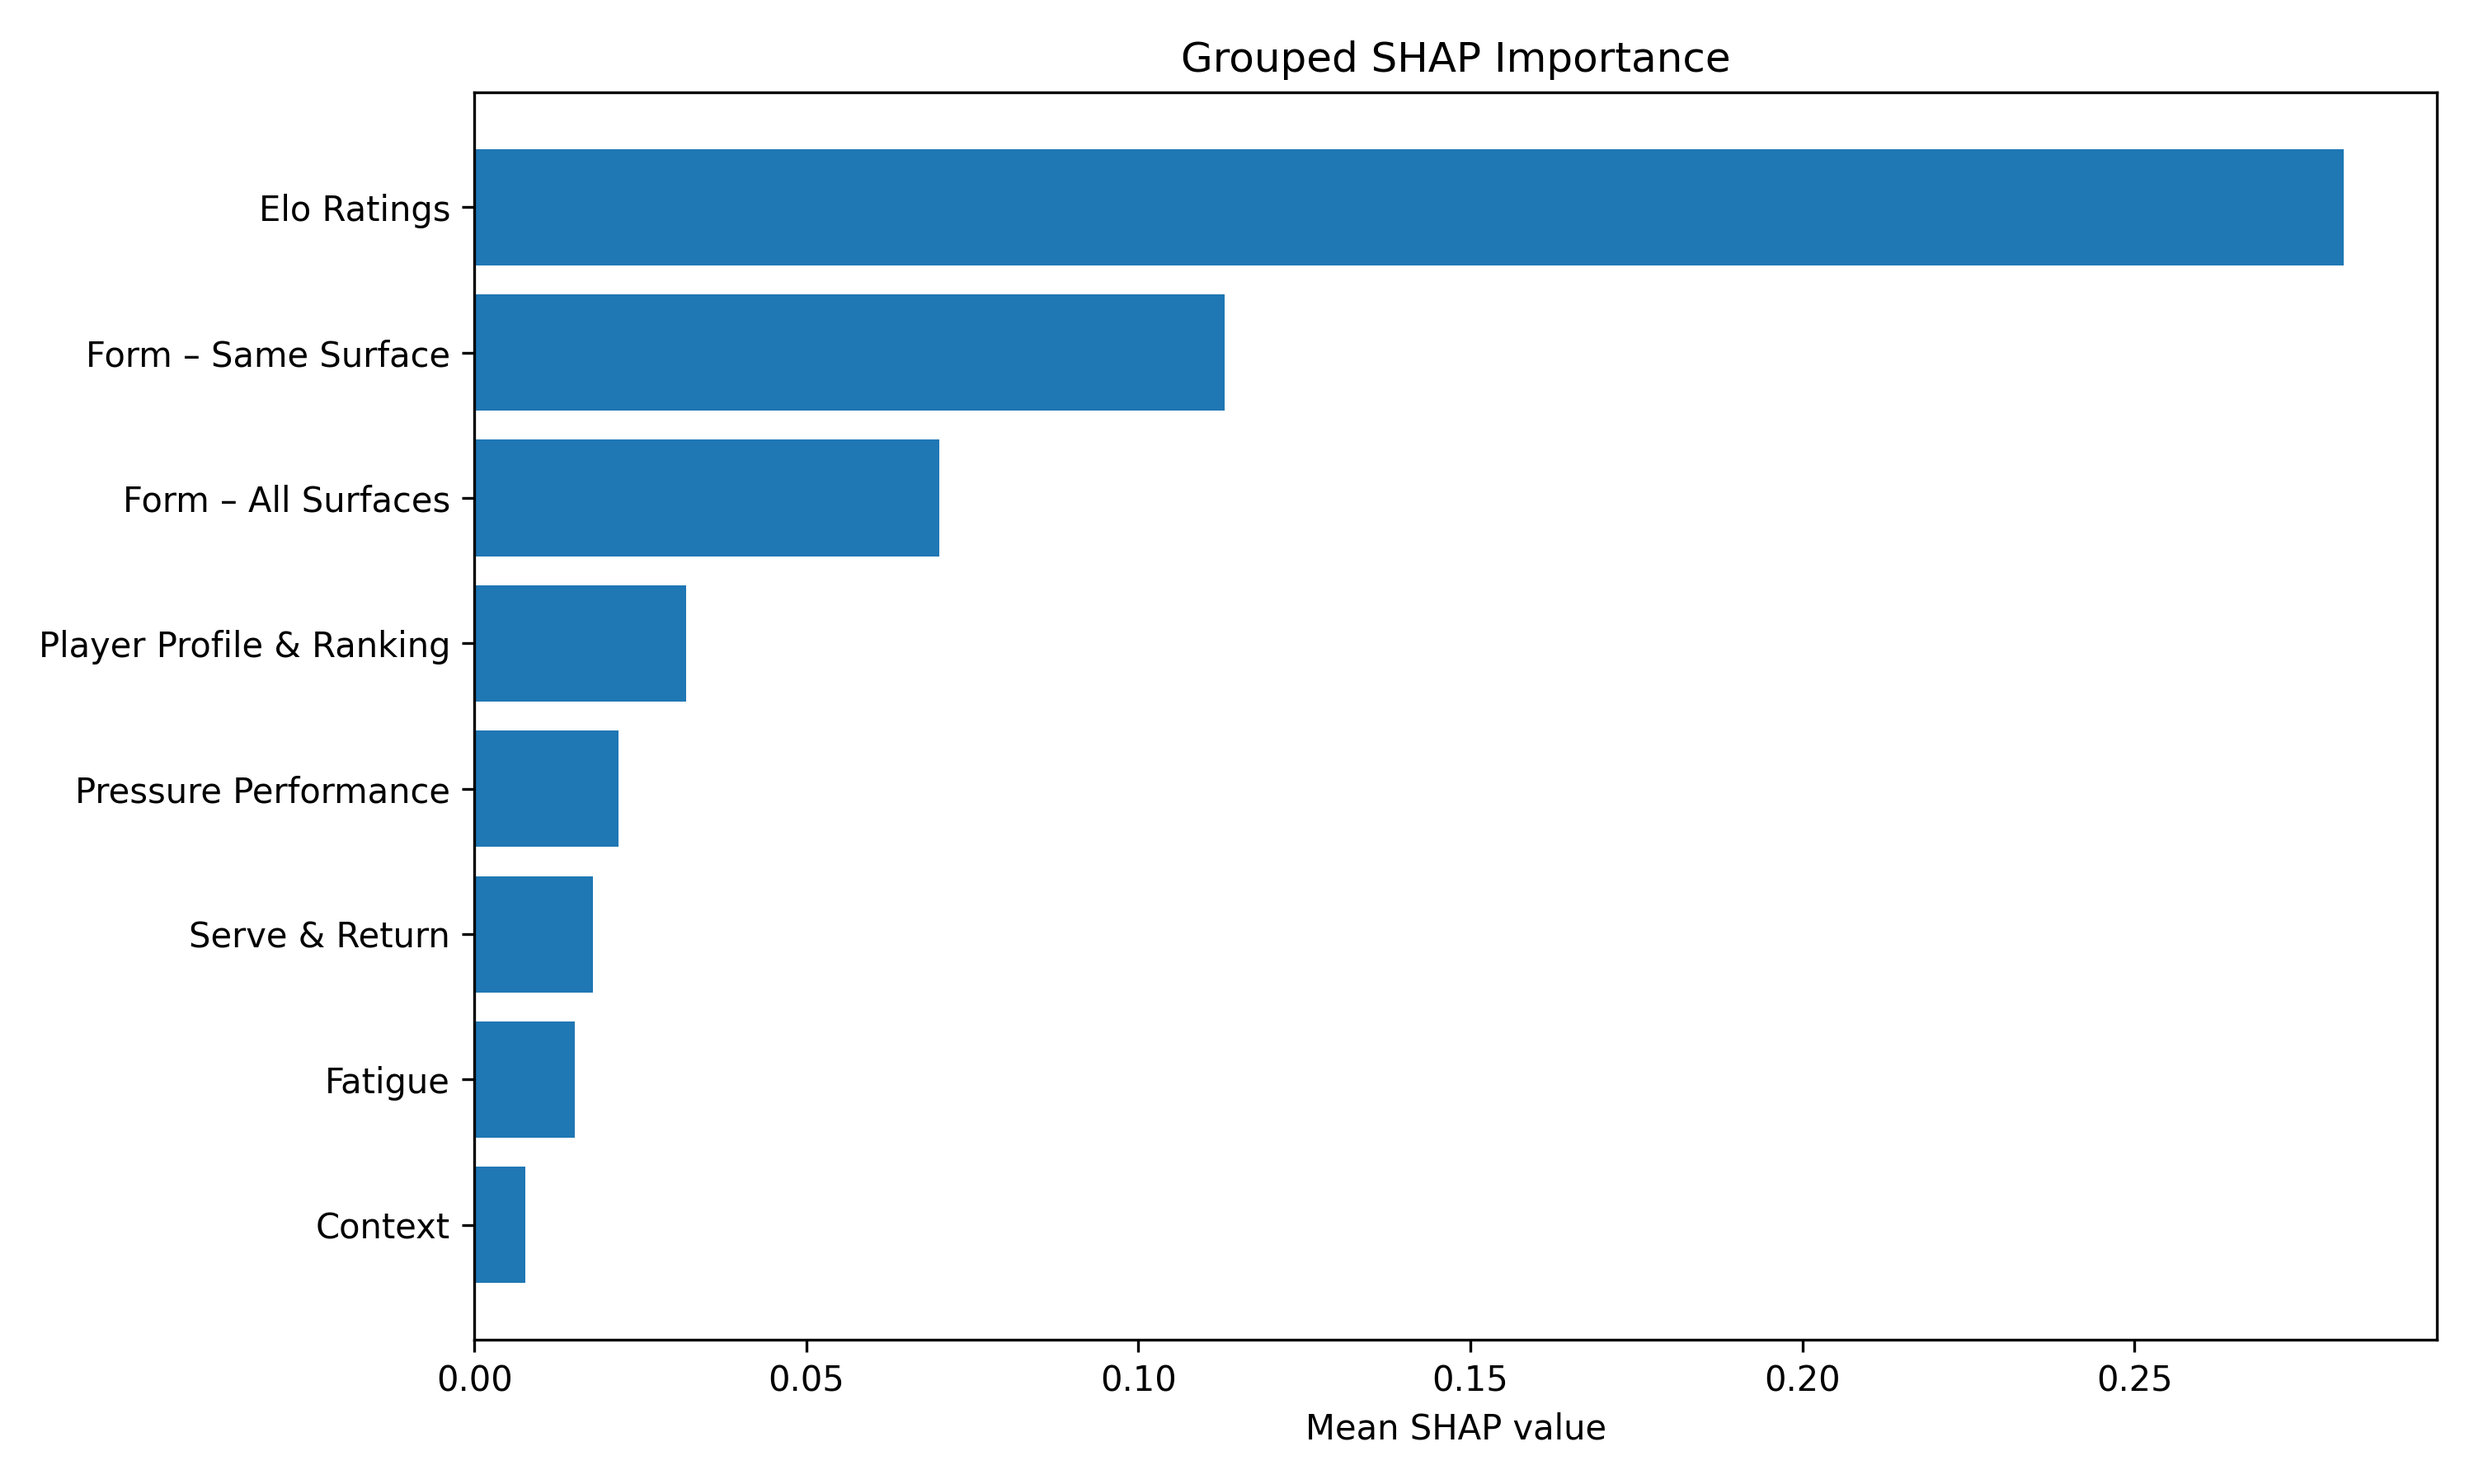
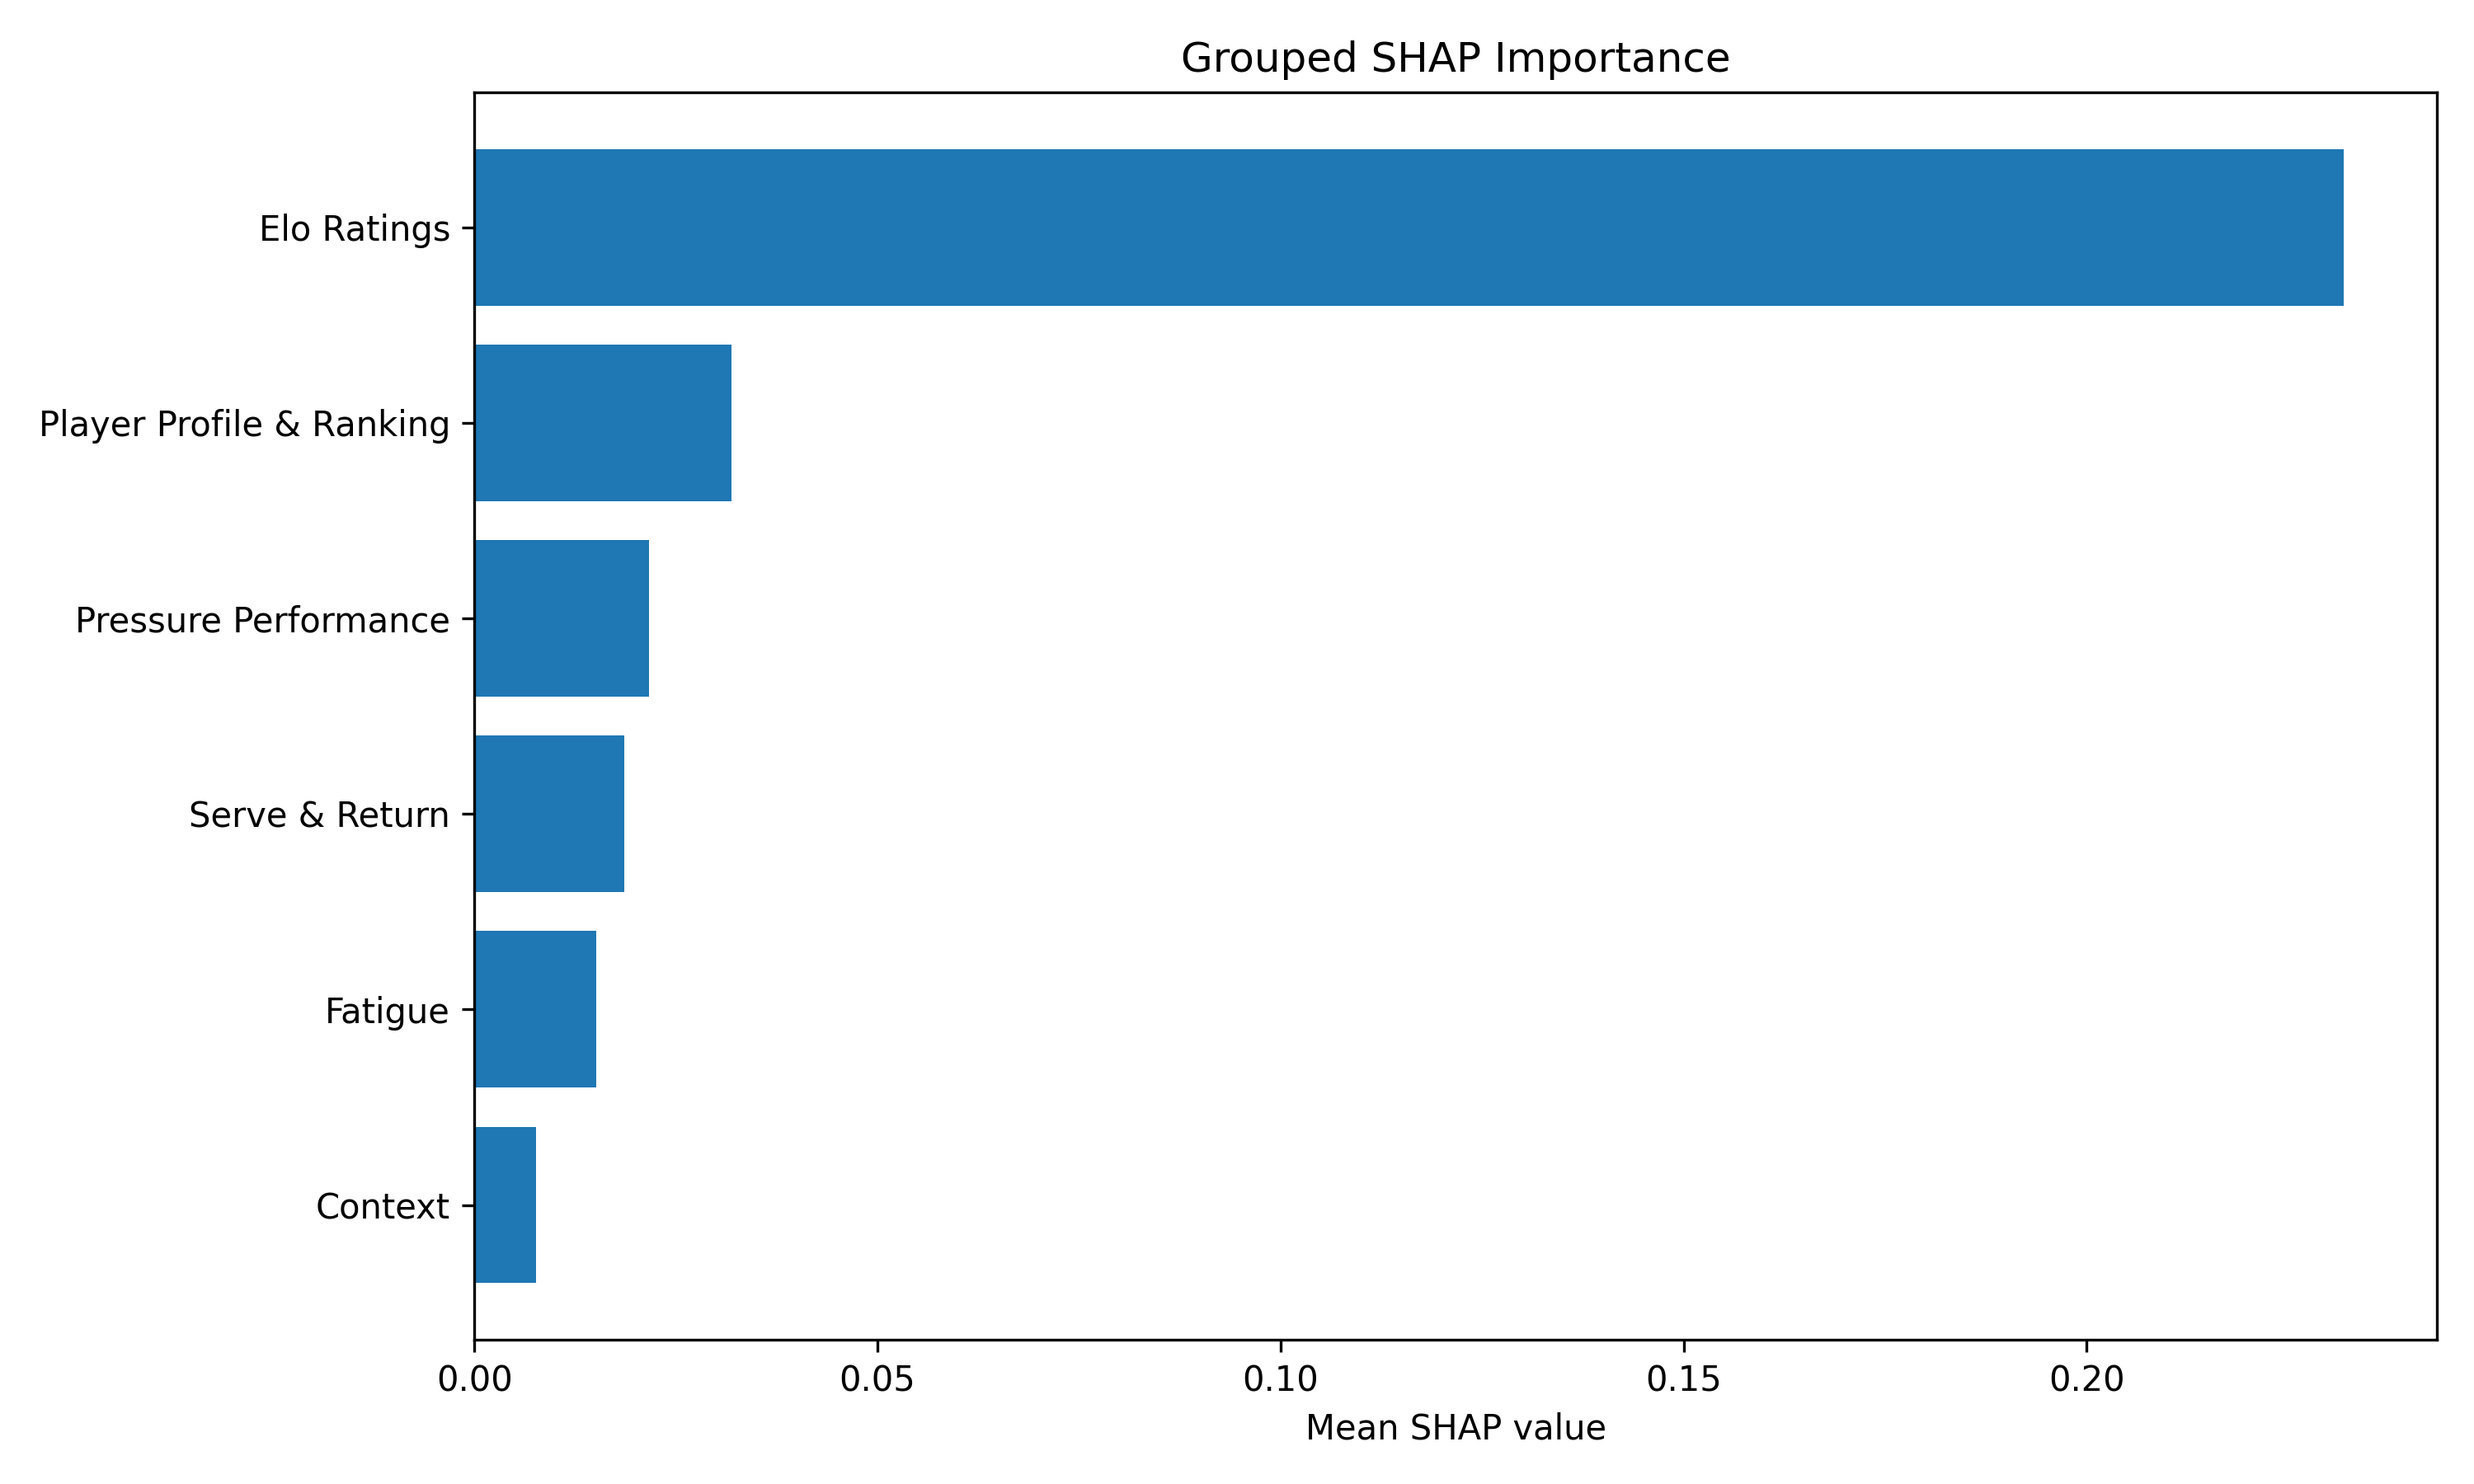
finally fixed groups properly

diff --git a/src/model_training/shap_modular.py b/src/model_training/shap_modular.py
@@ -42,28 +42,37 @@ def compute_global_shap(explainer, X):
 
 def get_feature_groups(X):
 
+    # --- Serve & Return (all serve/return stats from both ALL_5 and SAME_5) ---
     serve_return = [
         c for c in X
-        if (
-                "serve" in c
-                or "return" in c
-                or "hold" in c
-                or "aces_per_game" in c
-                or "double_fault" in c
-        )
+        if any(key in c for key in [
+            "first_serve_pct",
+            "first_serve_won_pct",
+            "second_serve_won_pct",
+            "double_fault_rate",
+            "aces_per_game",
+            "serve_pts_won_pct",
+            "estimated_hold_pct",
+            "serve_efficiency",
+            "return_pts_won_pct",
+            "estimated_break_pct",
+        ])
     ]
 
+    # --- Pressure stats ---
     pressure = [
         c for c in X
-        if (
-                "pressure" in c
-                or "bp_save" in c
-                or "bp_conversion" in c
-        )
+        if any(key in c for key in [
+            "pressure_index",
+            "bp_save_pct",
+            "bp_conversion_pct",
+
+        ])
     ]
 
     return {
 
+        # --- Player Profile ---
         "Player Profile & Ranking": [
             "p1_rank", "p2_rank", "rank_diff",
             "p1_rank_points", "p2_rank_points", "rank_points_diff",
@@ -72,32 +81,22 @@ def get_feature_groups(X):
             "p1_lefty", "p2_lefty", "lefty_diff",
         ],
 
+        # --- Elo + Winrate + Break % ---
         "Elo Ratings": [
             "p1_elo_global", "p2_elo_global", "elo_global_diff",
             "p1_elo_surface", "p2_elo_surface", "elo_surface_diff",
+
+            # moved from Form groups:
+            "p1_form_all_5_winrate", "p2_form_all_5_winrate",
+            "p1_form_same_5_winrate", "p2_form_same_5_winrate",
         ],
 
         "Serve & Return": serve_return,
 
+
         "Pressure Performance": pressure,
 
-        "Form – All Surfaces": [
-            c for c in X
-            if (
-                    "form_all_5" in c
-                    and c not in serve_return
-                    and c not in pressure
-            )
-        ],
-
-        "Form – Same Surface": [
-            c for c in X
-            if (
-                    "form_same_5" in c
-                    and c not in serve_return
-                    and c not in pressure
-            )
-        ],
+        # Form groups removed (no longer meaningful)
 
         "Fatigue": [
             "p1_fatigue_pre", "p2_fatigue_pre",
@@ -114,6 +113,8 @@ def get_feature_groups(X):
             ] or c.startswith("surface_")
         ],
     }
+
+
 
 
 def compute_group_importance(groups, X, shap_values):
